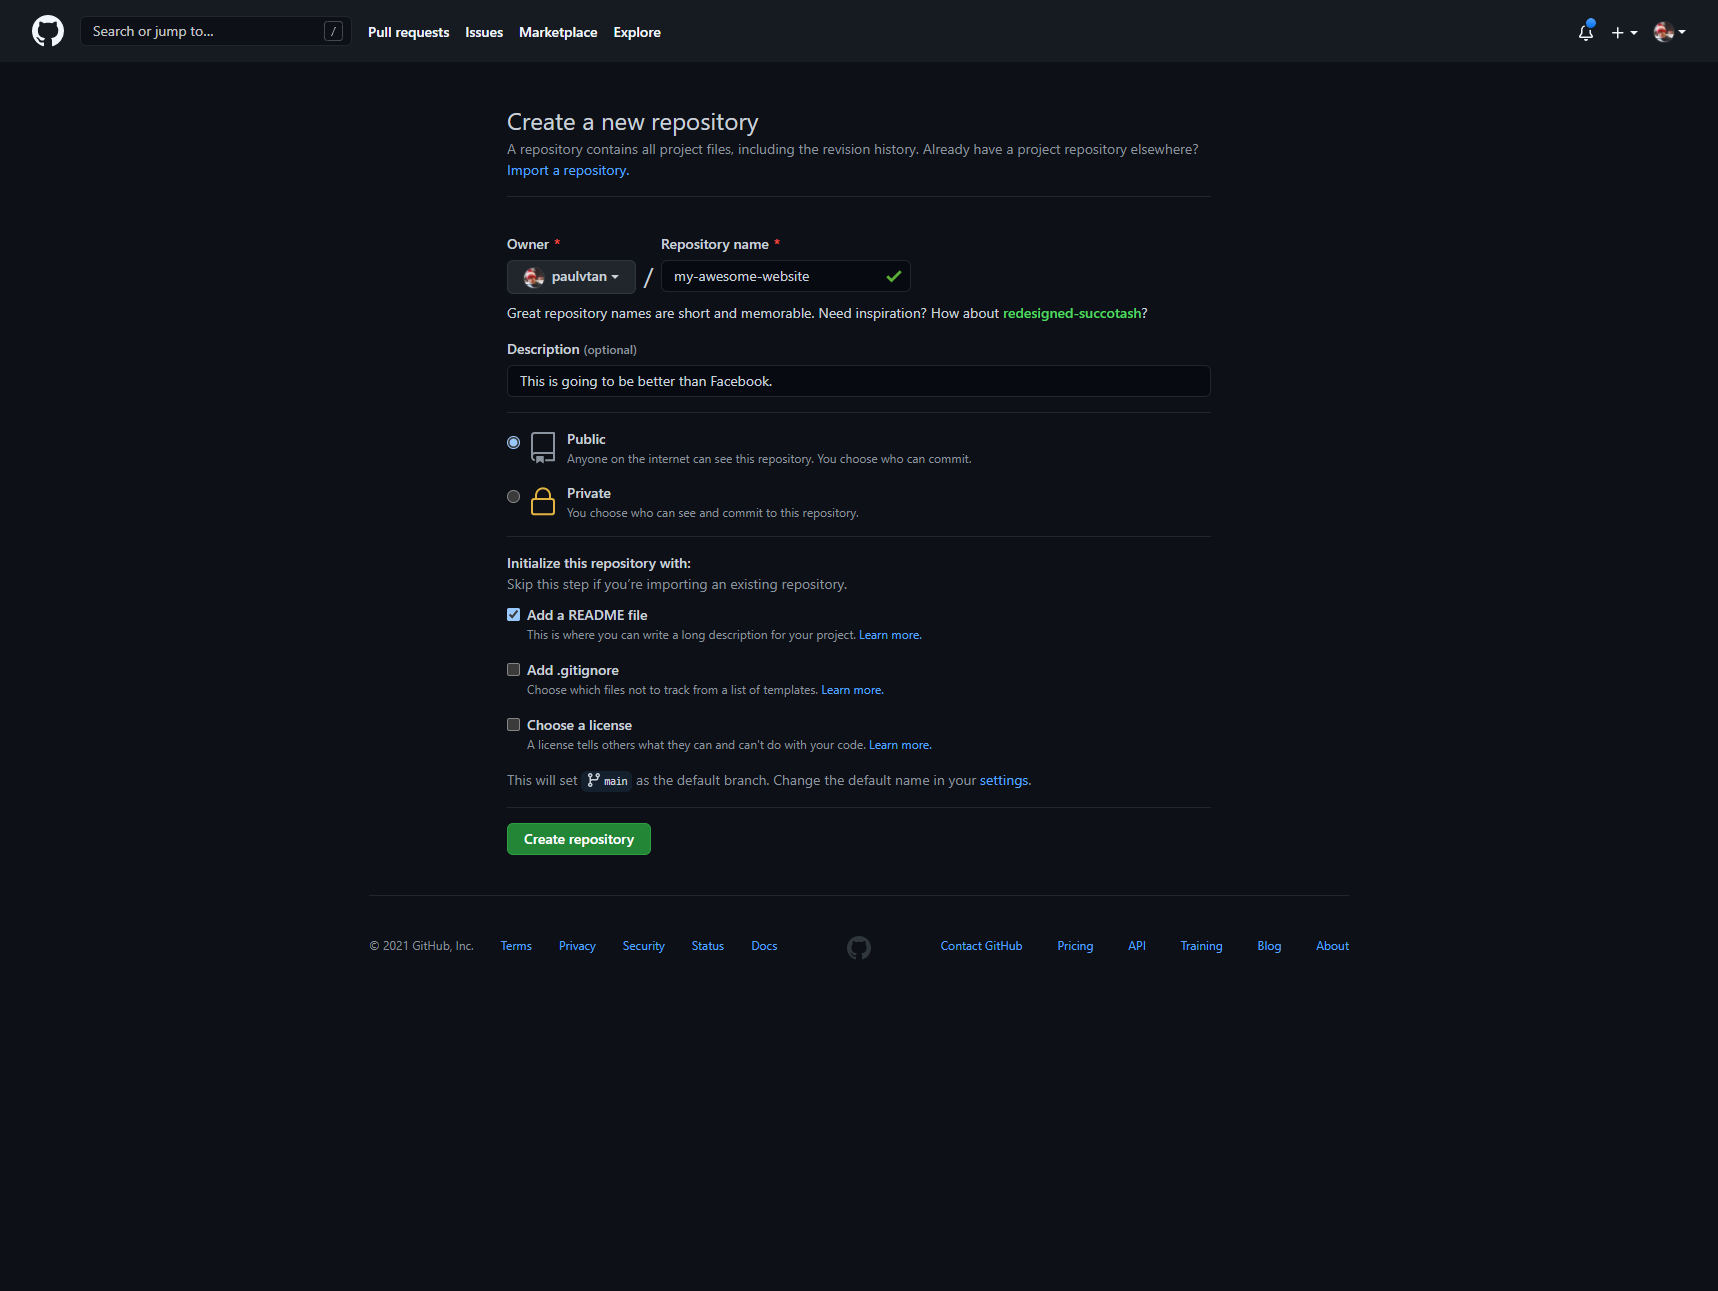
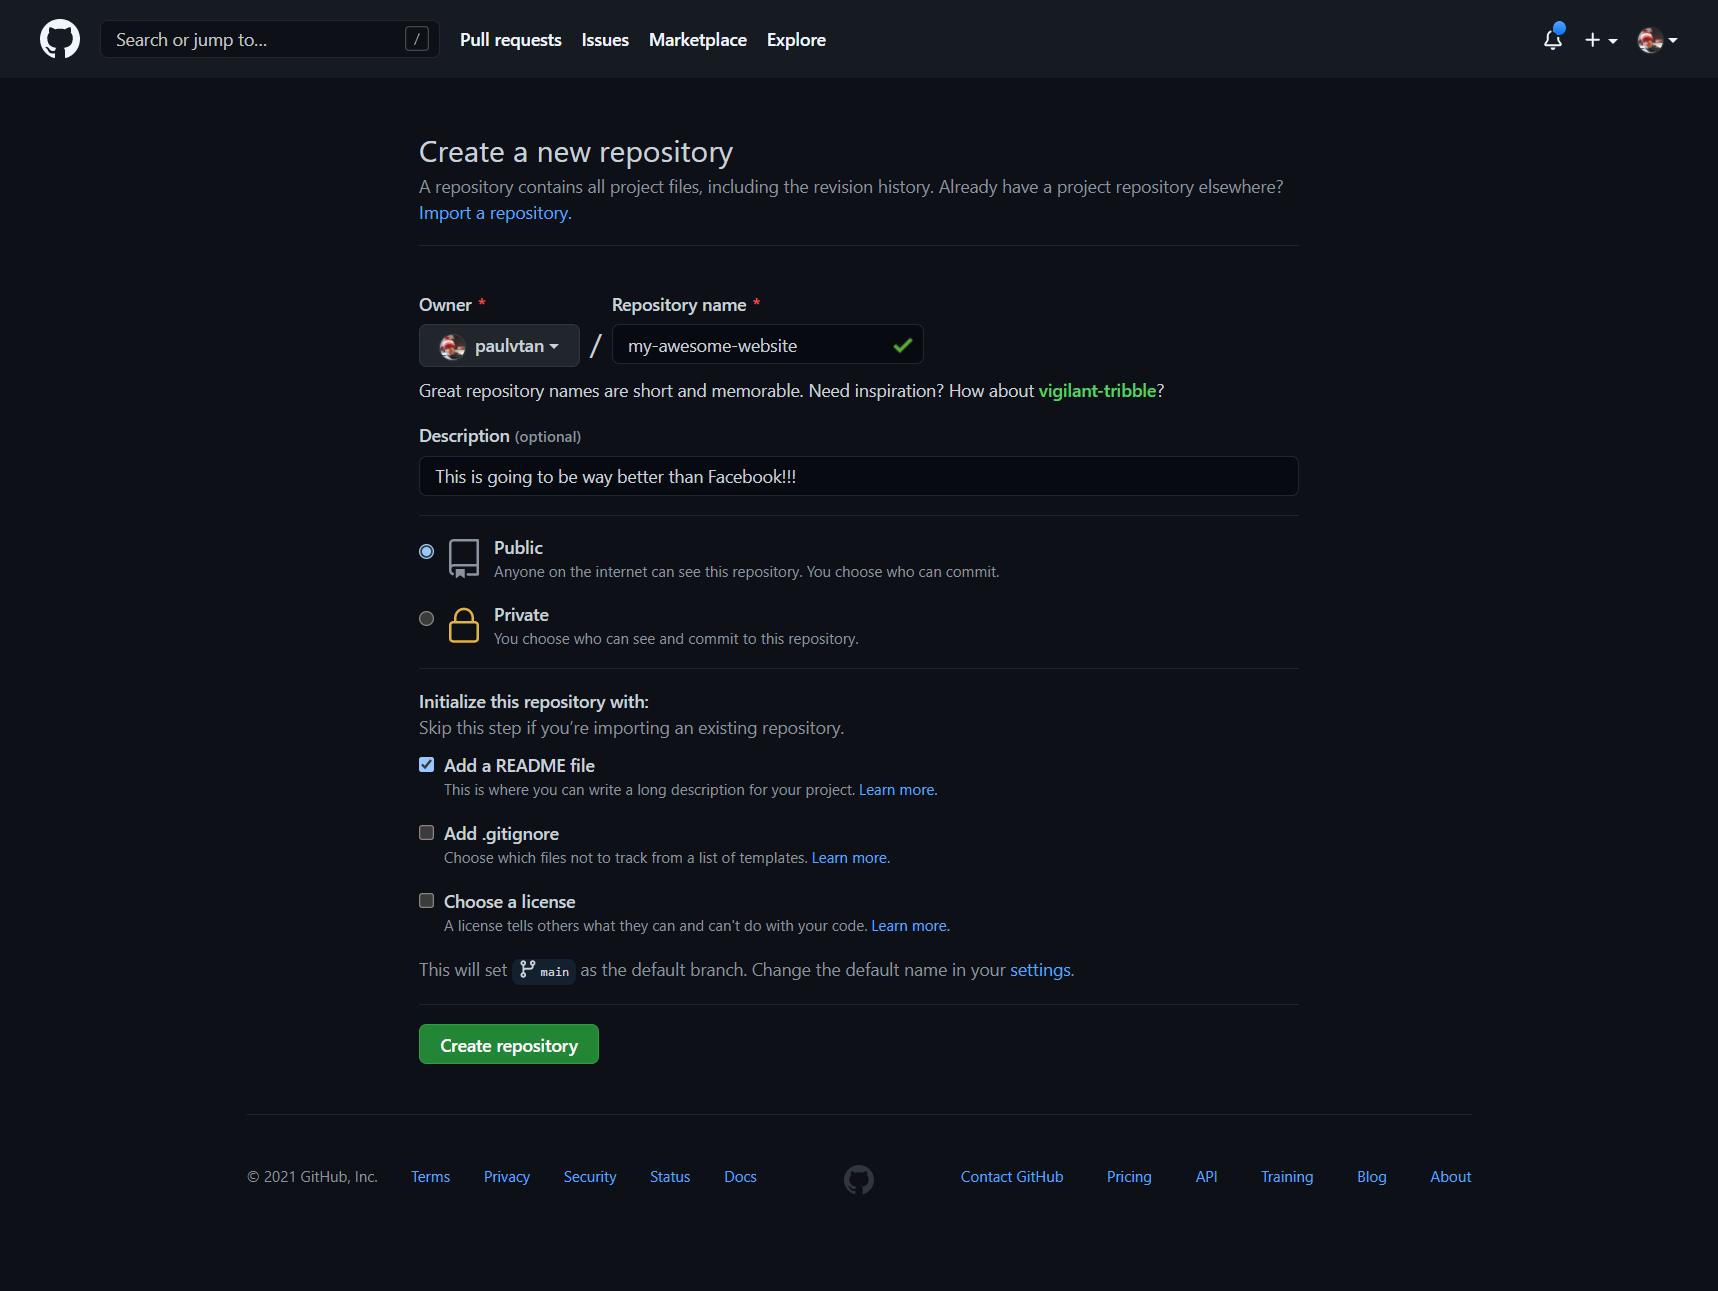
Zoom in images for repo creation steps for better clarity.

diff --git a/git/README.md b/git/README.md
@@ -37,15 +37,19 @@ Now that you have git installed, you can try run `git help git` command in your 
 
 ![Create new repository](images/1.png)
 
+1.2 Fill out the basic repository details for your project. You can select 'Add a README file', this will initialzie your repository with a markdown file used to document and describe your project.
+
 ![Create new repository](images/2.png)
 
 1.2 This is your git repository (think of it as your project folder and every changes in this folder will be tracked by git). 
 
-Right now as you can see the only file in your repository is a README.md file used to document and describe your project.
+Right now as you can see the only file in your repository is a README.md, which is displayed by default when you visit any repositories on GitHub.
 
 ![Create new repository](images/3.png)
 
+# Making our first commit
 
+1.3 Let's map 
 
 
 
